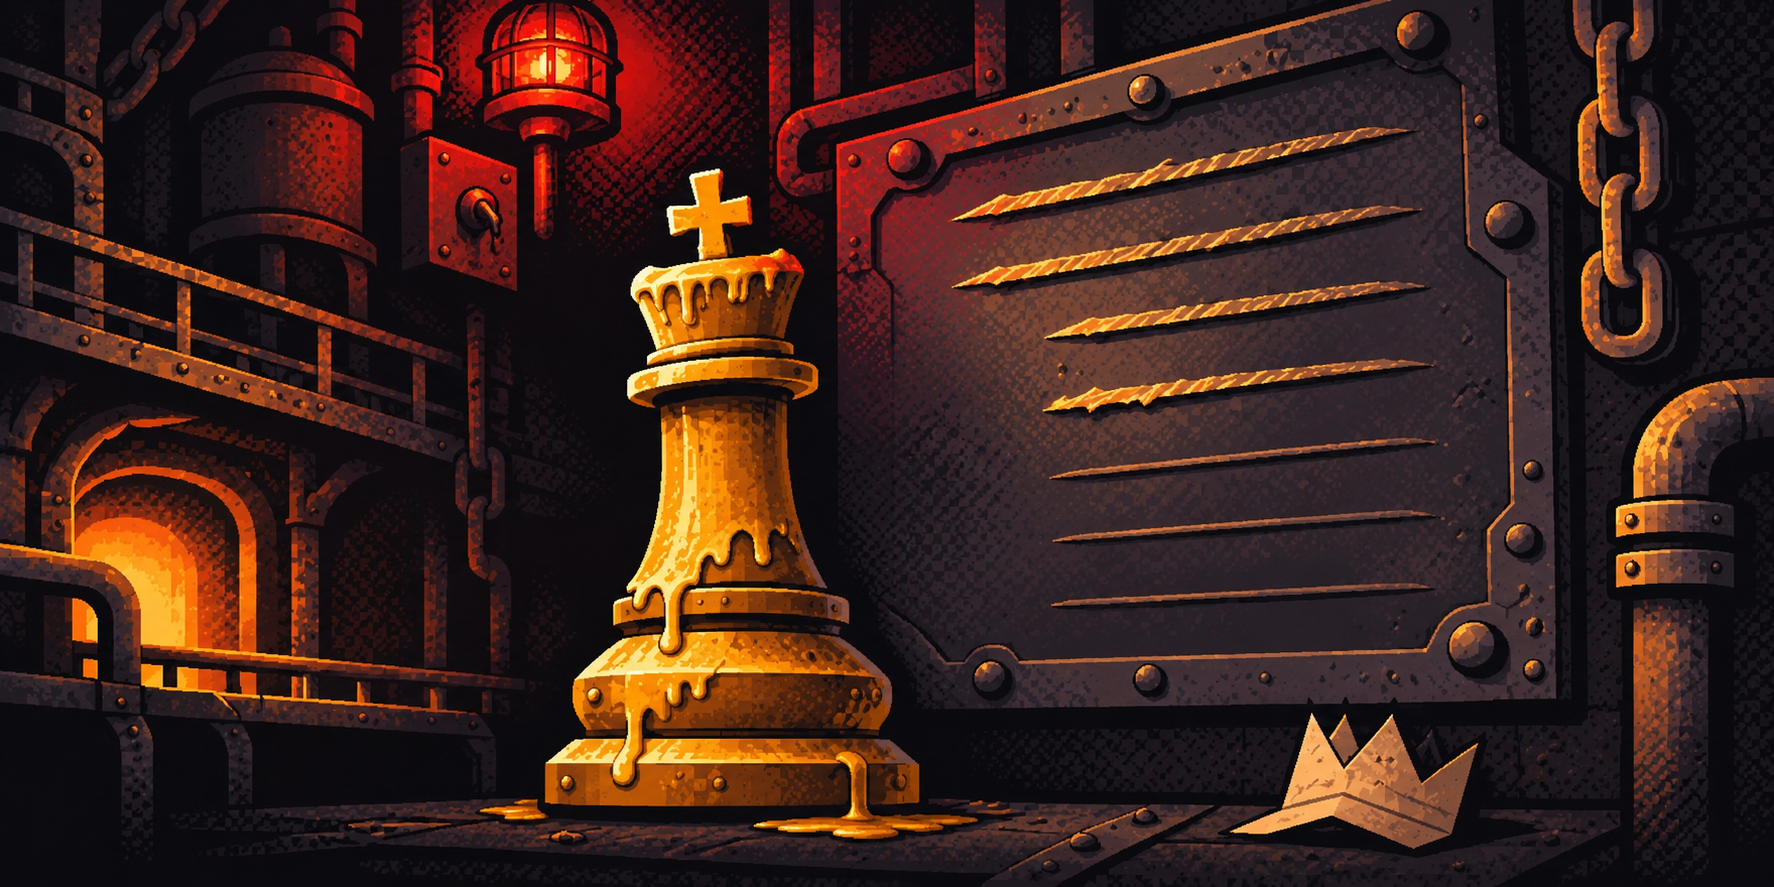
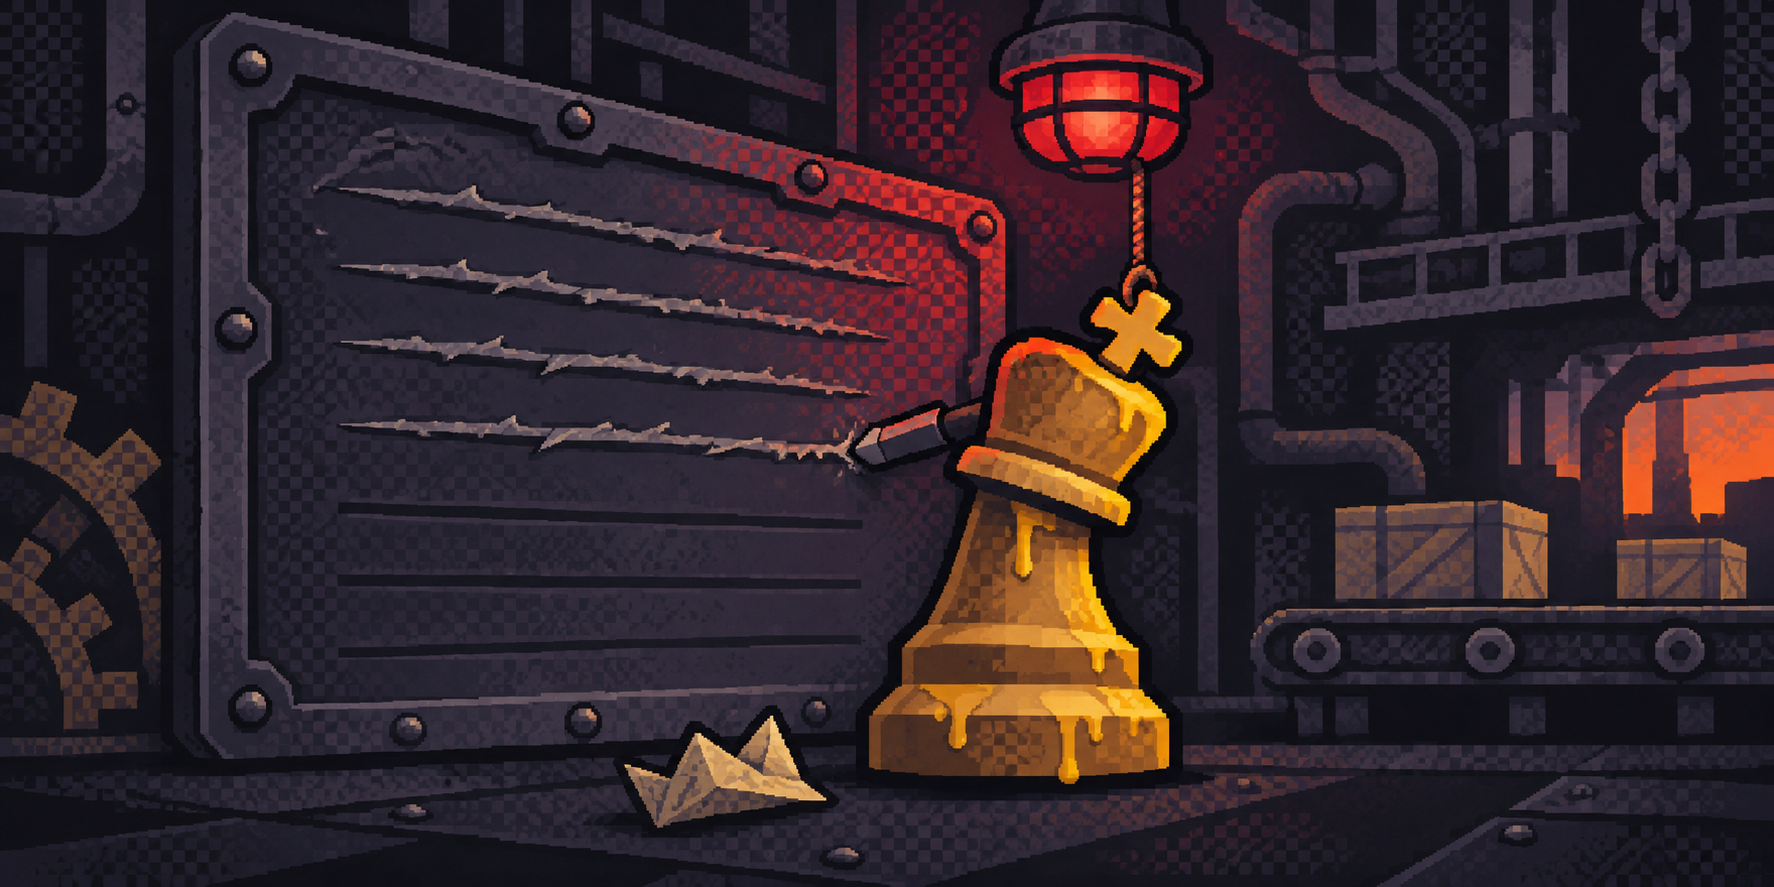
Import re-ordered C-02 promote-rule scene
화풍 고정 프롬프트로 다시 받은 「조항 새김」을 도트화해 넣었습니다.

Claude-Session: https://claude.ai/code/session_011jC4ZCDKW43H5FzLWnYVpe

diff --git a/tools/order/order_page.py b/tools/order/order_page.py
@@ -24,7 +24,7 @@ ATTACH = [
     ('⑤', '화풍 정답 「폰 둘」 — 컷 그림은 ② 대신 이것 (D-307)', 'build-res/order/E-03b-ending-3-source.png', 720),
 ]
 # 받았지만 화풍이 어긋나 다시 받는 그림 (D-307) — 파일이 있어도 「다시 받기」로 보인다
-REDO = {'promote', 'promote-betray', 'promote-rule'}
+REDO = {'promote', 'promote-betray'}
 
 
 def data_uri(path, width):
